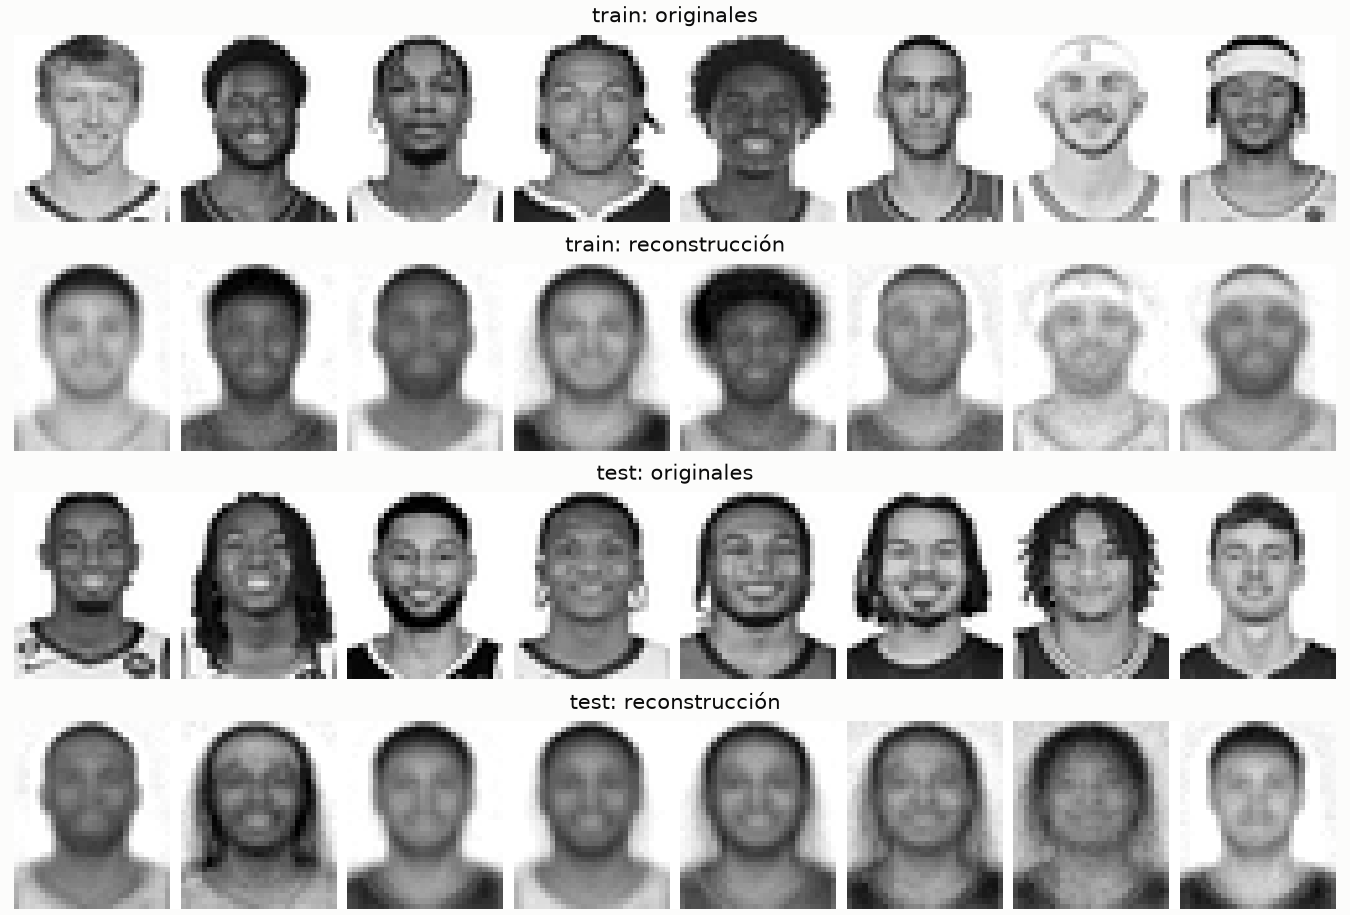
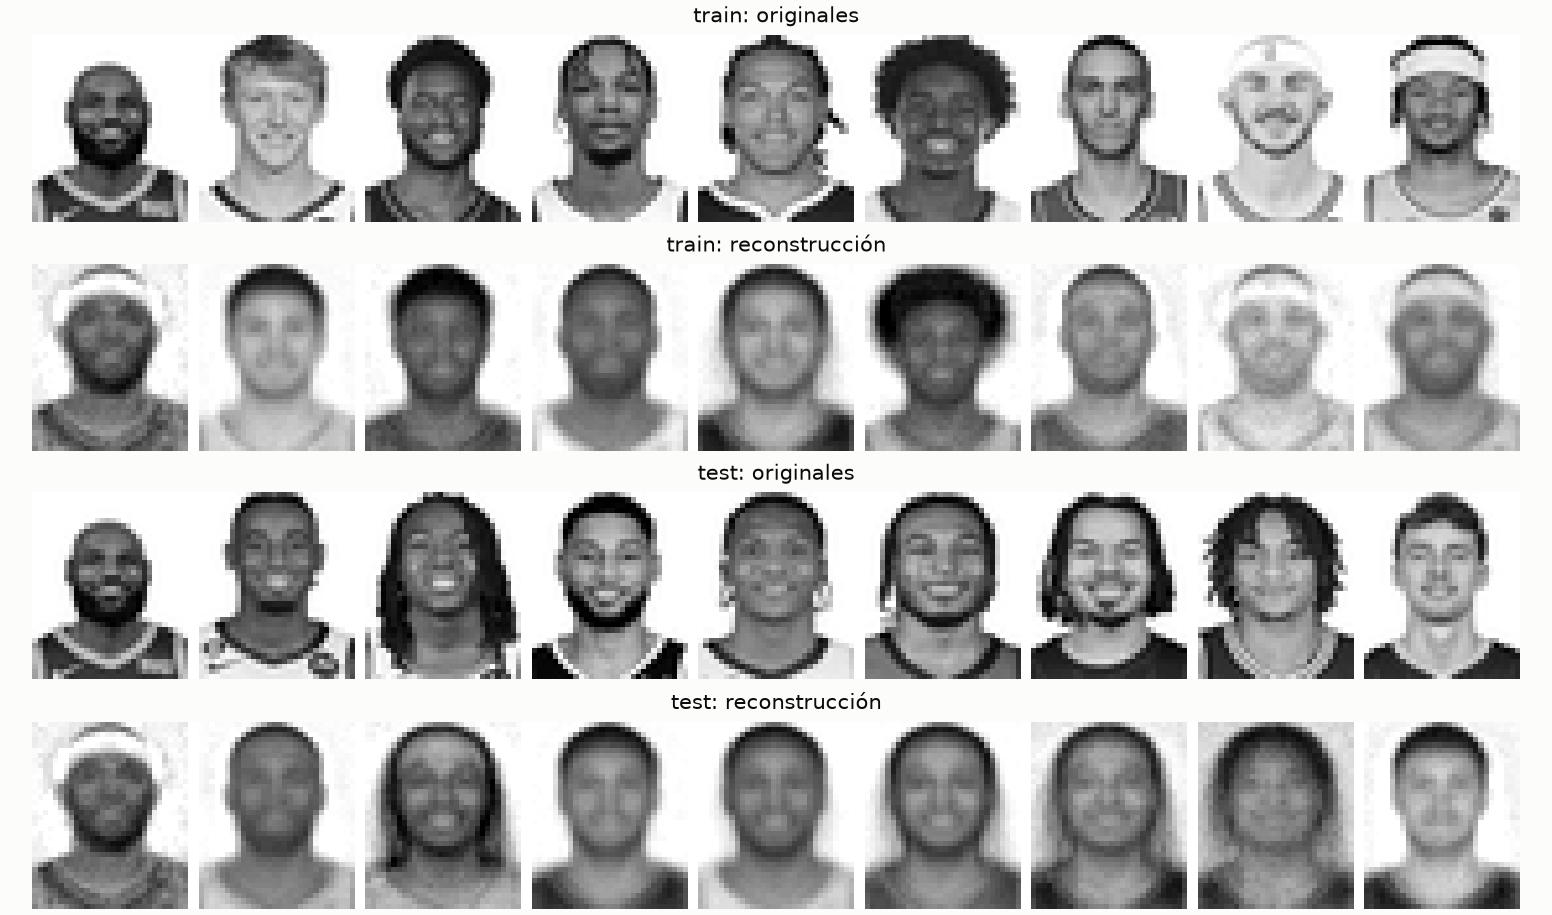
fix: lebrooonnnn jamesss

diff --git a/ej2/graficos.py b/ej2/graficos.py
@@ -482,20 +482,33 @@ def fig_dataset(nombre: str) -> Figure:
 # --- 2. Reconstrucción ---
 
 
+def _indices_reconstruccion(nombre: str, conjunto: dict, split: str) -> np.ndarray:
+    """Primeros 8 del split; en NBA, LeBron primero y el resto igual."""
+    indices = list(np.flatnonzero(conjunto["split"] == split)[:MUESTRAS_FILA])
+    if nombre == "nba":
+        lebron = int(np.flatnonzero(conjunto["y"] == "lebron")[0])
+        indices = [lebron] + [i for i in indices if i != lebron]
+    return np.asarray(indices)
+
+
 def fig_reconstruccion(nombre: str) -> Figure:
     conjunto = _dataset(nombre)
     modelo, _ = _modelo(nombre, "final")
     filas = []
     for split in ("train", "test"):
-        idx = np.flatnonzero(conjunto["split"] == split)[:MUESTRAS_FILA]
+        idx = _indices_reconstruccion(nombre, conjunto, split)
         originales = conjunto["X"][idx]
         reconstruccion = modelo.decode(modelo.encode(originales))
         filas.append((f"{split}: originales", _imagenes(conjunto, originales)))
         filas.append((f"{split}: reconstrucción", _imagenes(conjunto, reconstruccion)))
-    fig = Figure(figsize=(9, 0.5 + _alto_fila(conjunto) * len(filas)), layout="constrained")
+    columnas = len(filas[0][1])
+    fig = Figure(
+        figsize=(1.15 * columnas, 0.5 + _alto_fila(conjunto) * len(filas)),
+        layout="constrained",
+    )
     ejes = fig.subplots(len(filas), 1)
     for ax, (titulo, imagenes) in zip(np.atleast_1d(ejes), filas, strict=True):
-        _mostrar_mosaico(ax, imagenes, MUESTRAS_FILA, titulo)
+        _mostrar_mosaico(ax, imagenes, columnas, titulo)
     return fig
 
 

diff --git a/tests/test_ej2_graficos.py b/tests/test_ej2_graficos.py
@@ -73,3 +73,22 @@ def test_render_auxiliar_de_banderas_usa_el_generador(tmp_path):
     assert imagenes[0].shape == (160, 240, 3)
     assert imagenes[0].min() >= 0.0 and imagenes[0].max() <= 1.0
     assert (tmp_path / "prueba_00.png").exists()
+
+
+def test_reconstruccion_nba_pone_lebron_primero():
+    conjunto = {
+        "split": np.array(["train"] * 4 + ["test"] * 3),
+        "y": np.array(["a", "b", "lebron", "c", "d", "e", "f"]),
+    }
+    indices = graficos._indices_reconstruccion("nba", conjunto, "train")
+    assert indices[0] == 2
+    assert len(indices) == 4
+
+
+def test_reconstruccion_otro_dataset_no_cambia_el_orden():
+    conjunto = {
+        "split": np.array(["train"] * 3 + ["test"] * 2),
+        "y": np.array(["a", "b", "c", "d", "e"]),
+    }
+    indices = graficos._indices_reconstruccion("f1", conjunto, "test")
+    np.testing.assert_array_equal(indices, [3, 4])
